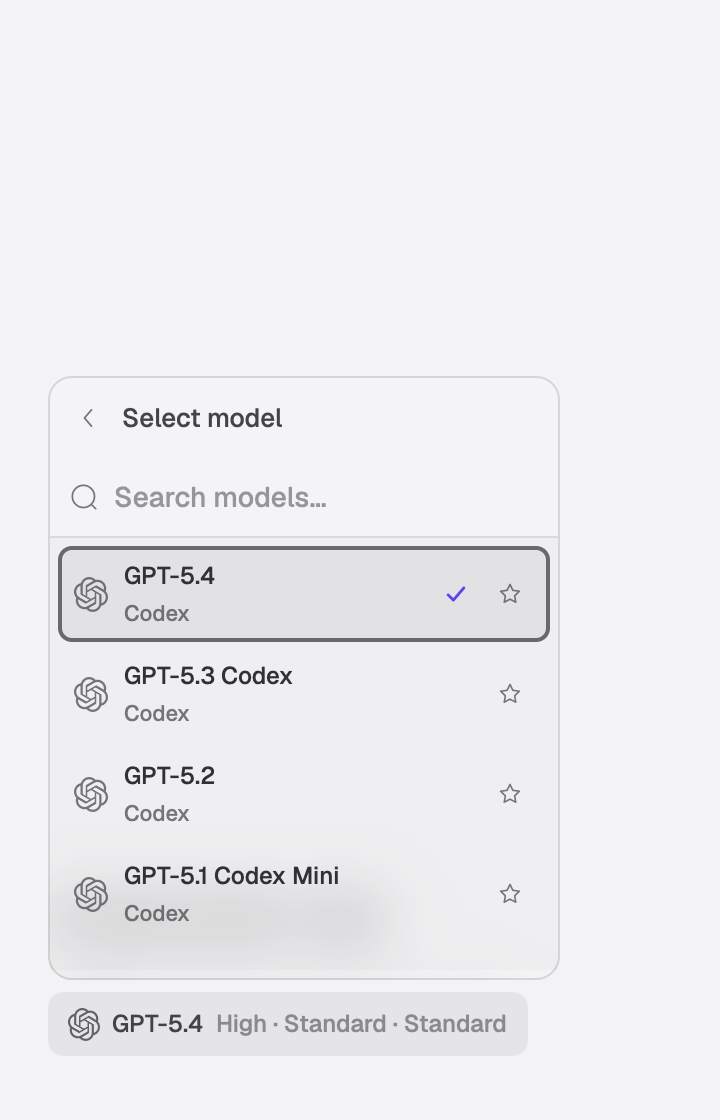
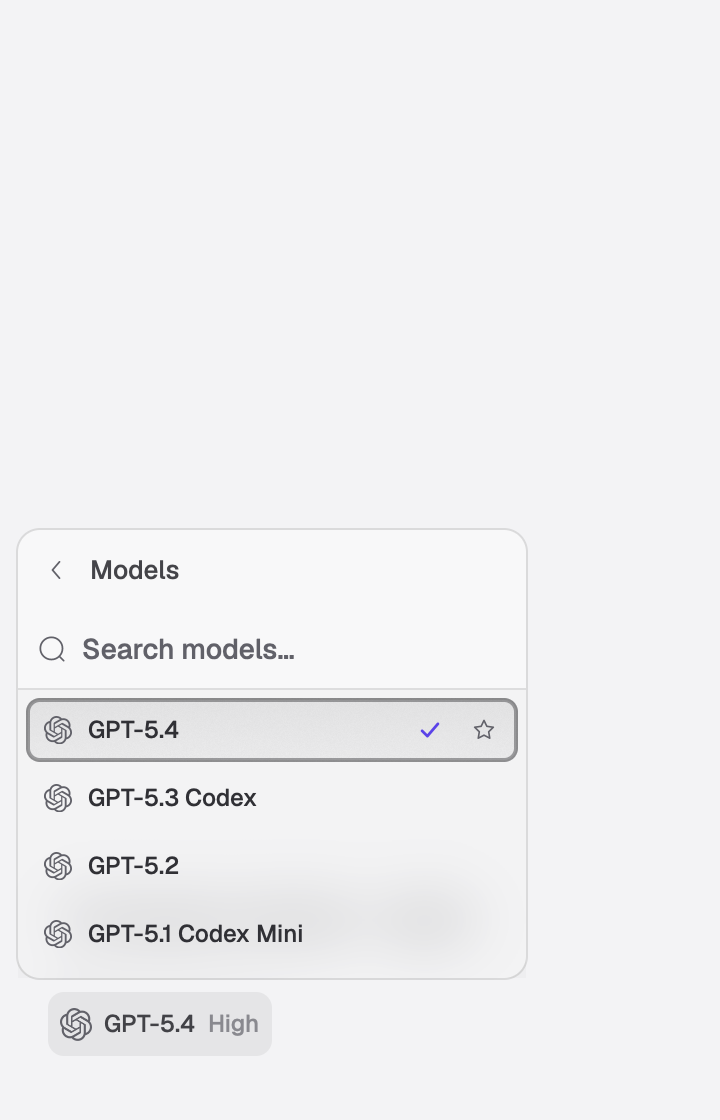
Document compact picker runtime evidence

diff --git a/docs/screenshots/compact-picker/README.md b/docs/screenshots/compact-picker/README.md
@@ -1,11 +1,13 @@
 # Compact picker runtime evidence
 
-Captured from clean `codex/compact-picker` source `309d352364f4def96badf19b1f1d839ac8a19926` on 2026-09-19. The fixture uses synthetic catalogs and temporary settings, with no real conversation or IPC server.
+Captured from clean `codex/compact-picker` source `4ea3e527` on 2026-09-29. The fixture uses synthetic catalogs and temporary settings (default Zeron accent), with no real conversation or IPC server.
 
-Build: `CARGO_INCREMENTAL=0 CARGO_TARGET_DIR=/Users/gaelcado/.zeron/worktrees/comet/quiet-onyx/target cargo build --locked -p zeron-ui --example compact-picker-fixture --features compact-picker-fixture`.
[1 lines of base64/hex data omitted]
+Build and run: `cargo run -p zeron-ui --features compact-picker-fixture --example compact-picker-fixture -- <output>`.
[1 lines of base64/hex data omitted]
 
-All keyboard assertions passed for effort selection, reset to model default, fast tier and favorite identity. Sixteen captures cover panel/list at dark/light and 840/360 logical widths, height 560. The two included captures were visually inspected: controls and list rows remain contained, the back/header and search are visible, and focus/selection remain distinct. Static screenshots do not establish animation performance or live provider compatibility.
+All keyboard assertions passed for effort selection, fast tier and favorite identity across dark/light and 840/360 logical widths, height 560. The included captures were visually inspected: both header buttons sit one card inset from the card's top and sides, the title, rail and option labels share one leading edge, fast mode shows an accent glyph on a neutral plate, and the dark fill uses the theme's accent fill token. Static screenshots do not establish animation performance or live provider compatibility. Settings switches are not part of this fixture.
 
[6 lines of base64/hex data omitted]
